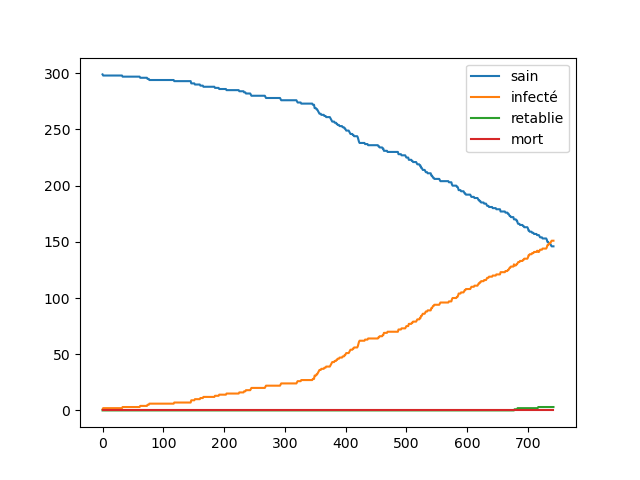
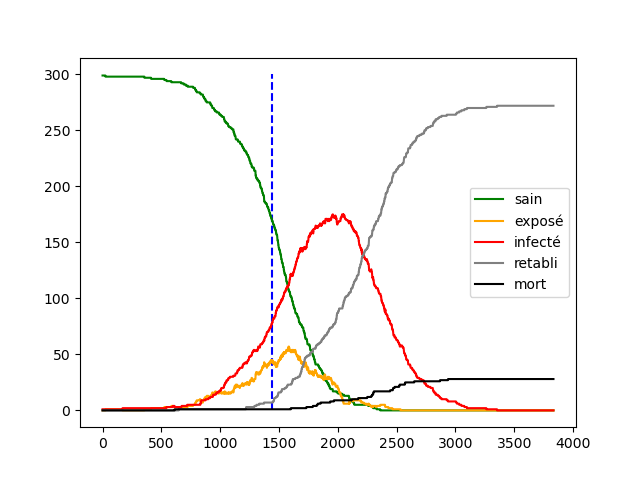
update

diff --git a/simulationb.py b/simulationb.py
@@ -14,25 +14,35 @@ clock = pygame.time.Clock()
 resolutionEcran = (600,600)
 FPS = 60
 greenColor = (50,210,50)
-redColor = (255,50,50)
+redColor = (200,10,10)
 greyColor = (100,100,100)
 whiteColor = (230,230,230)
 blackColor = (0, 0, 0)
 blueColor = (80, 150, 255)
+orangeColor =(255,90,10)
 arialFontFPS = pygame.font.SysFont("arial", 15)
 pygame.display.set_caption("TIPE")
 
 
 # Initialisation des paramètres du modèle
 NombreDIndividus = 300
-NombreMaladeInit = 1
+NombreMaladeInit_E = 0
+NombreMaladeInit_I = 1
 dureeInfectionMin = 600
 dureeInfectionMax = 1000
+dureeIncubationMin = 100
+dureeIncubationMax = 200
 ProbaInfectionContact = 0.2
 TauxMortalite = 0.1
 
-NbS = NombreDIndividus - NombreMaladeInit
-NbI = NombreMaladeInit
+vacc = False
+TauxVacc = 0.0005
+
+NbCumuleInfecte = 0
+
+NbS = NombreDIndividus - NombreMaladeInit_E - NombreMaladeInit_I
+NbE = NombreMaladeInit_E
+NbI = NombreMaladeInit_I
 NbR = 0
 NbM = 0
 t = 0
@@ -56,15 +66,18 @@ def produitScalaire(angle1, taille1, angle2, taille2):
 # Classe Balle qui représente un individu
 class Balle(pygame.sprite.Sprite):
 	global dictBalles, ProbaInfectionContact, dureeInfection, NbS, NbI, NbR
-	def __init__(self, x, y, idballe, dateFinInfection = 0, vaMourir = False, masse = 1, rayon = 15, vitesse = 0, angle = 0, couleur = greenColor):
+	def __init__(self, x, y, idballe, dateFinInfection = 0, dateFinIncubation=0 , vaMourir = False, masse = 1, rayon = 15, vitesse = 0, angle = 0, couleur = greenColor):
 	    super(Balle, self).__init__()
 	    dictBalles[idballe] = self
 	    self.id = idballe
 	    self.sain = True
+	    self.invincible = False
 	    self.contagieux = False
 	    self.dureeInfection = 0
 	    self.dateFinInfection = dateFinInfection
 	    self.vaMourir = vaMourir
+	    self.dateFinIncubation = dateFinIncubation
+	    self.scoreInfection = 0
 	    self.masse = masse
 	    self.rayon = rayon
 	    self.x = x
@@ -105,7 +118,7 @@ class Balle(pygame.sprite.Sprite):
     # Rebond entre les balles
 	@staticmethod # méthode propre à la classe entière, pas associée à une Balles
 	def collision(dictBalles):
-		global NbS, NbI
+		global NbS, NbE, NbI, NbCumuleInfecte
 
 		couplesballes = []
 		for couple in enumerate(dictBalles):
@@ -144,62 +157,83 @@ class Balle(pygame.sprite.Sprite):
 				    if start:
 				        if b1.sain and b2.contagieux:
 				        	if random.random() < ProbaInfectionContact:
+				        		b2.scoreInfection += 1
 				        		NbS -= 1
-				        		NbI += 1
+				        		NbE += 1
 				        		# changement de couleur de b1
 				        		b1.surface = pygame.Surface((b1.rayon*2, b1.rayon*2),pygame.SRCALPHA)
-				        		pygame.draw.circle(b1.surface, redColor, [b1.rayon,b1.rayon], b1.rayon)
+				        		pygame.draw.circle(b1.surface, orangeColor, [b1.rayon,b1.rayon], b1.rayon)
 				        		b1.mask = pygame.mask.from_surface(b1.surface)
 				        		# fin changement de couleur de b1
-				        		b1.contagieux = True
 				        		b1.sain = False
+				        		b1.dateFinIncubation = random.randint(dureeIncubationMin,dureeIncubationMax)
 				        		b1.dateFinInfection = random.randint(dureeInfectionMin,dureeInfectionMax)
 				        		if random.random() < TauxMortalite:
 				        			b1.vaMourir = True
 				        elif b2.sain and b1.contagieux:
 				        	if random.random() < ProbaInfectionContact:
+				        		b1.scoreInfection += 1
 				        		NbS -= 1
-				        		NbI += 1
+				        		NbE += 1
 				        		# changement de couleur de b2
 				        		b2.surface = pygame.Surface((b2.rayon*2, b2.rayon*2),pygame.SRCALPHA)
-				        		pygame.draw.circle(b2.surface, redColor, [b2.rayon,b2.rayon], b2.rayon)
+				        		pygame.draw.circle(b2.surface, orangeColor, [b2.rayon,b2.rayon], b2.rayon)
 				        		b2.mask = pygame.mask.from_surface(b2.surface)
 				        		# fin changement de couleur de b2
-				        		b2.contagieux = True
 				        		b2.sain = False
+				        		b2.dateFinIncubation = random.randint(dureeIncubationMin,dureeIncubationMax)
 				        		b2.dateFinInfection = random.randint(dureeInfectionMin,dureeInfectionMax)
 				        		if random.random() < TauxMortalite:
 				        			b2.vaMourir = True
 	# deplacement des balles et mise a jour de l'etat de la balle
 	def move(self):
-		global NbS, NbI, NbR, NbM
+		global NbS, NbE, NbI, NbR, NbM, TauxVacc, vacc
 		self.rebondContour()
 		dx = math.sin(self.angle)*self.vitesse
 		dy = math.cos(self.angle)*self.vitesse
 		self.x += dx*60/FPS
 		self.y += dy*60/FPS
+		## vaccination
+		if vacc:
+			if self.sain:
+				if random.random() < TauxVacc:
+					NbS-=1
+					NbR+=1
+					self.surface = pygame.Surface((self.rayon*2, self.rayon*2),pygame.SRCALPHA)
+					pygame.draw.circle(self.surface, blueColor, [self.rayon,self.rayon], self.rayon)
+					self.mask = pygame.mask.from_surface(self.surface)
+					self.invincible = True
+					self.sain = False
 		## maladie
-		if not self.sain and self.contagieux: # on incremente de temps passé malade
+		if not self.sain and not self.invincible: # on incremente de temps passé malade
 			self.dureeInfection += 1
-		# on regarde si la balle est à la fin de sa maladie
-		if self.dureeInfection > self.dateFinInfection:
-			self.dureeInfection = 0
-			self.contagieux = False
-			# on regarde si la balle va mourir à la fin de sa maladie
-			if self.vaMourir:
+			# on regarde si la balle est à la fin de l'incubation / maladie
+			if self.dureeInfection == self.dateFinIncubation:
+				NbE-=1
+				NbI+=1
+				self.contagieux = True
 				self.surface = pygame.Surface((self.rayon*2, self.rayon*2),pygame.SRCALPHA)
-				pygame.draw.circle(self.surface, blackColor, [self.rayon,self.rayon], self.rayon)
+				pygame.draw.circle(self.surface, redColor, [self.rayon,self.rayon], self.rayon)
 				self.mask = pygame.mask.from_surface(self.surface)
-				dictBallesMortes[self.id] = self
-				NbI -= 1
-				NbM += 1
-				return self.id
-			else:
-				self.surface = pygame.Surface((self.rayon*2, self.rayon*2),pygame.SRCALPHA)
-				pygame.draw.circle(self.surface, greyColor, [self.rayon,self.rayon], self.rayon)
-				self.mask = pygame.mask.from_surface(self.surface)
-				NbI -= 1
-				NbR += 1
+			elif self.dureeInfection > self.dateFinInfection:
+				self.dureeInfection = 0
+				self.contagieux = False
+				# on regarde si la balle va mourir à la fin de sa maladie
+				if self.vaMourir:
+					self.surface = pygame.Surface((self.rayon*2, self.rayon*2),pygame.SRCALPHA)
+					pygame.draw.circle(self.surface, blackColor, [self.rayon,self.rayon], self.rayon)
+					self.mask = pygame.mask.from_surface(self.surface)
+					dictBallesMortes[self.id] = self
+					NbI -= 1
+					NbM += 1
+					return self.id
+				else:
+					self.surface = pygame.Surface((self.rayon*2, self.rayon*2),pygame.SRCALPHA)
+					pygame.draw.circle(self.surface, greyColor, [self.rayon,self.rayon], self.rayon)
+					self.mask = pygame.mask.from_surface(self.surface)
+					self.invincible = True
+					NbI -= 1
+					NbR += 1
 		return False
 
 	# affichage 
@@ -240,22 +274,31 @@ for k in range(1,NombreDIndividus+1):
 	y = random.random()*(resolutionEcran[1]-60)+30
 	vitesse = 1
 	angle = 2*math.pi*random.random()
-	if NombreMaladeInit > 0:
-		NombreMaladeInit -= 1
+	if NombreMaladeInit_I > 0:
+		NombreMaladeInit_I -= 1
 		dateFinInfection = random.randint(dureeInfectionMin,dureeInfectionMax)
 		vaMourir = False
 		if random.random() < TauxMortalite:
 			vaMourir = True
-		balle = Balle(x, y, idballe=k, dateFinInfection = dateFinInfection ,vaMourir= vaMourir, masse = 1, rayon = 8, couleur = redColor, vitesse=vitesse, angle=angle)
+		balle = Balle(x, y, idballe=k, dateFinInfection = dateFinInfection, dateFinIncubation=-1, vaMourir= vaMourir, masse = 1, rayon = 8, couleur = redColor, vitesse=vitesse, angle=angle)
 		balle.sain = False
 		balle.contagieux = True
+	elif NombreMaladeInit_E > 0:
+		NombreMaladeInit_E -= 1
+		dateFinIncubation = random.randint(dureeIncubationMin,dureeIncubationMax)
+		dateFinInfection = random.randint(dureeInfectionMin,dureeInfectionMax)
+		vaMourir = False
+		if random.random() < TauxMortalite:
+			vaMourir = True
+		balle = Balle(x, y, idballe=k, dateFinInfection = dateFinInfection, dateFinIncubation = dateFinIncubation, vaMourir= vaMourir, masse = 1, rayon = 8, couleur = orangeColor, vitesse=vitesse, angle=angle)
+		balle.sain = False
+		balle.contagieux = False
 	else:
 		balle = Balle(x, y, idballe=k, masse = 1, rayon = 8, vitesse=vitesse, angle=angle)
 
 contour = Bordure()
 
 windowSurface = pygame.display.set_mode(resolutionEcran, pygame.RESIZABLE)
-
 
 
 running = True
@@ -276,9 +319,13 @@ while running:
             	end = True
             	affiche = True
 
+    # condition vaccination
+    if (NbE + NbI) > NombreDIndividus*0.4 and not vacc:
+    	vacc = True
+    	tVacc = t
 
     if start and not end:
-    	listeGeneral.append([t, NbS, NbI, NbR, NbM])
+    	listeGeneral.append([t, NbS, NbE, NbI, NbR, NbM])
     	t += 1
     	listeIdMort = []
     	for idb in dictBalles:
@@ -309,11 +356,26 @@ while running:
 
     if affiche:
     	affiche = False
+
+    	SumR = 0
+    	SumCumuleInfecte = 0
+    	for idb in dictBalles:
+    		b = dictBalles[idb]
+    		SumR += b.scoreInfection
+    	for idb in dictBallesMortes:
+    		b = dictBallesMortes[idb]
+    		SumR += b.scoreInfection
+    	R_moy = SumR / NombreDIndividus
+    	print(f"Le R moyen vaut : {R_moy}")
+
     	listeGeneral = np.array(listeGeneral)
     	plt.figure()
-    	plt.plot(listeGeneral[:,0],listeGeneral[:,1],label="sain")
-    	plt.plot(listeGeneral[:,0],listeGeneral[:,2],label="infecté")
-    	plt.plot(listeGeneral[:,0],listeGeneral[:,3],label="retablie")
-    	plt.plot(listeGeneral[:,0],listeGeneral[:,4],label="mort")
+    	plt.plot(listeGeneral[:,0],listeGeneral[:,1],c="g",label="sain")
+    	plt.plot(listeGeneral[:,0],listeGeneral[:,2],c="orange",label="exposé")
+    	plt.plot(listeGeneral[:,0],listeGeneral[:,3],c="r",label="infecté")
+    	plt.plot(listeGeneral[:,0],listeGeneral[:,4],c="grey",label="retabli")
+    	plt.plot(listeGeneral[:,0],listeGeneral[:,5],c="black",label="mort")
+    	if vacc:
+    		plt.vlines(tVacc, ymin=0, ymax=NombreDIndividus, colors="b", linestyle="dashed")
     	plt.legend()
     	plt.savefig("evolution.png")
